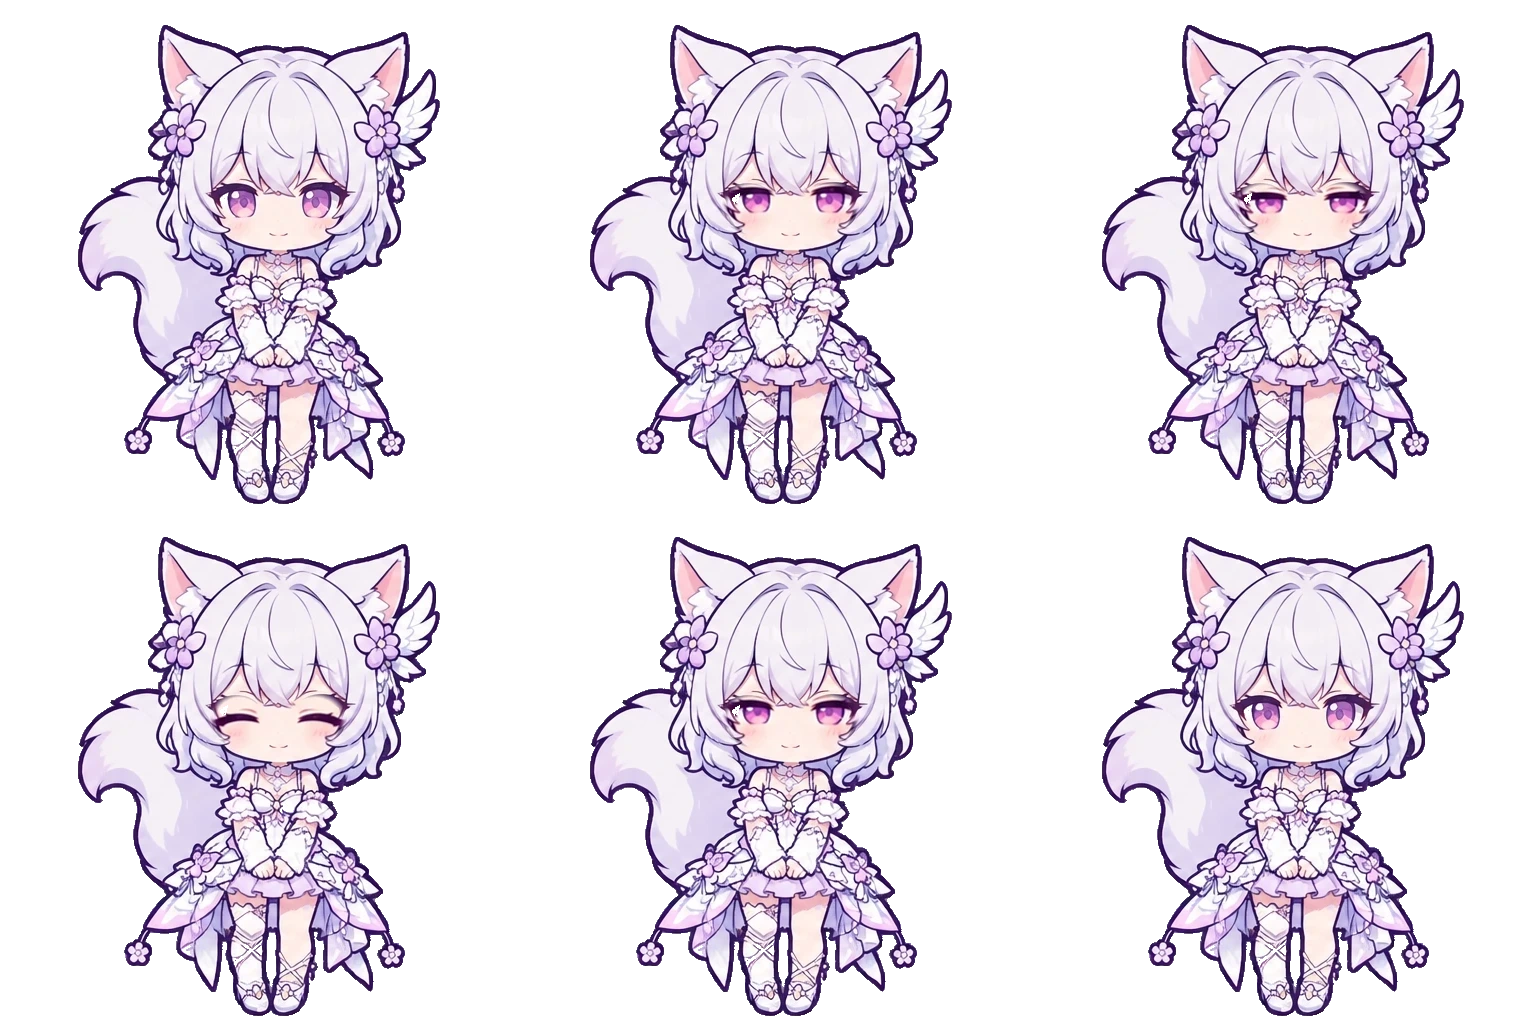
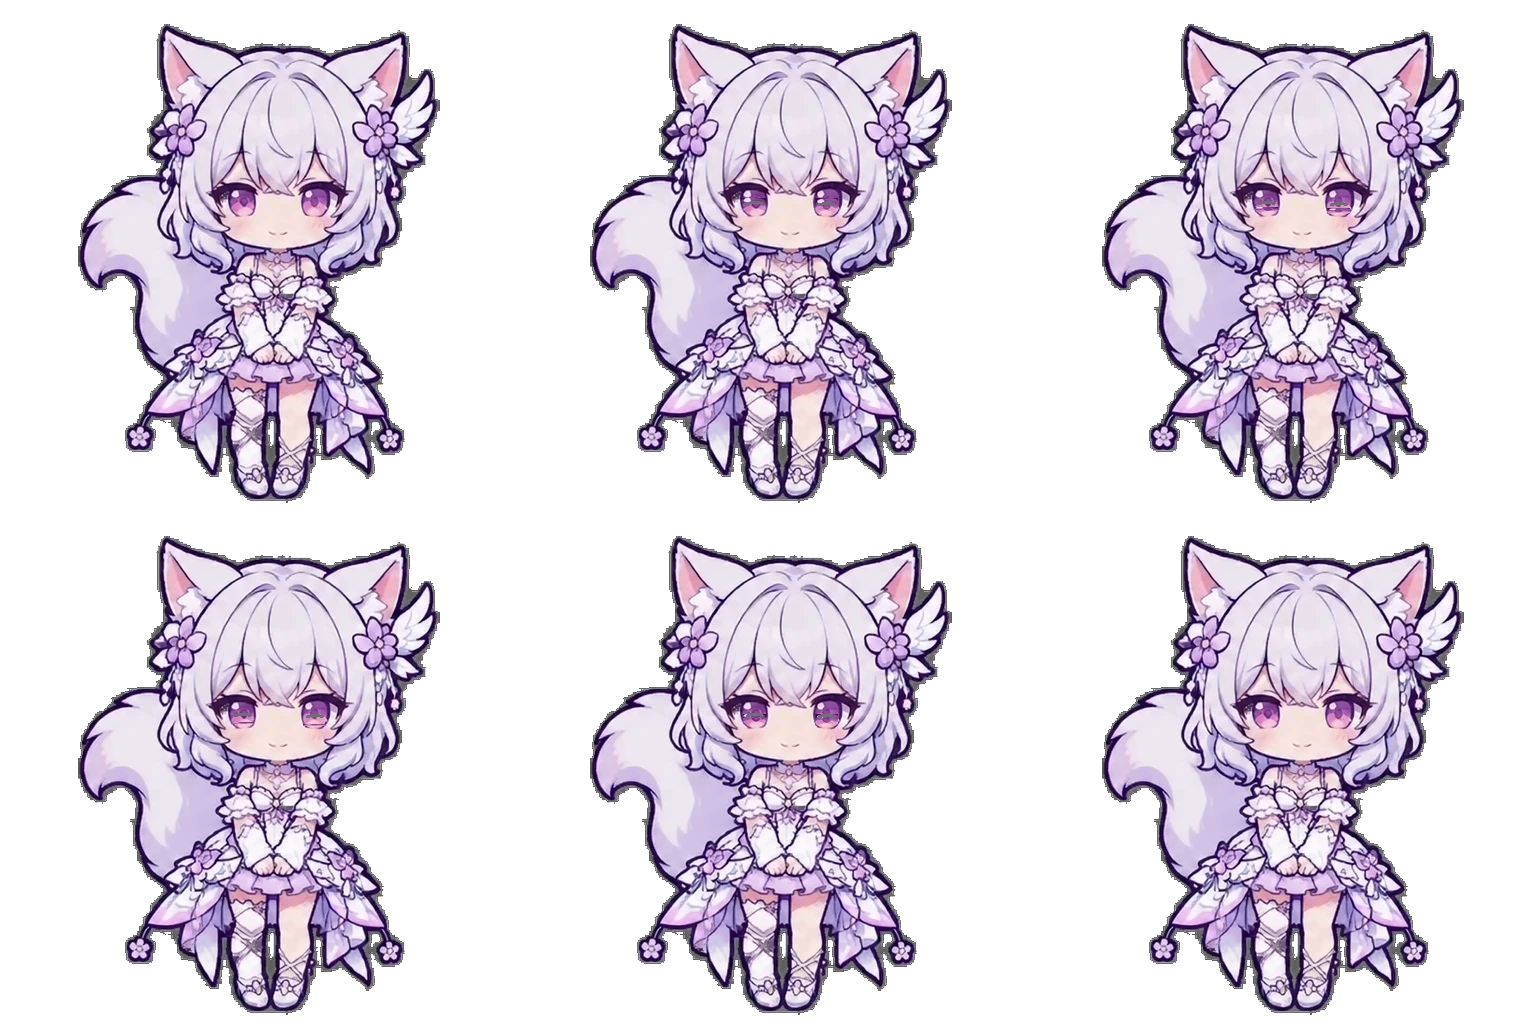
fix: refine pet idle rhythm and refresh animation assets

diff --git a/src/components/ChibiPetCanvas.tsx b/src/components/ChibiPetCanvas.tsx
@@ -40,6 +40,7 @@ import { runFlee, FLEE_TAKEOVER_HOLD_MS, type FleeEnv } from '../chibi/fleeTrack
 import type { FleeGeometry } from '../chibi/fleePlan';
 import { TapAngerLedger } from '../chibi/tapAnger';
 import { SheetLoader } from '../chibi/sheetLoader';
+import { IdleAccentRhythm } from '../chibi/idleAccentRhythm';
 import './ChibiPetCanvas.css';
 
 /**
@@ -367,8 +368,16 @@ export const ChibiPetCanvas = forwardRef<ChibiPetCanvasHandle, ChibiPetCanvasPro
     useEffect(() => { sheetLoader.setCapacity(gameMode ? 1 : 2); }, [gameMode, sheetLoader]);
     const [, setSheetVersion] = useState(0);
     useEffect(() => {
-      if (gameMode && poseName === 'idle') sheetLoader.clear();
+      if (gameMode && poseName === 'idle') sheetLoader.clear(true);
     }, [gameMode, poseName, sheetLoader]);
+    const idleSheet = `/chibi/motion/${characterId}/${characterId}-idle-sheet.webp`;
+    useEffect(() => {
+      let cancelled = false;
+      void sheetLoader.pin(idleSheet).then(() => {
+        if (!cancelled) setSheetVersion(version => version + 1);
+      });
+      return () => { cancelled = true; };
+    }, [idleSheet, sheetLoader]);
     const [frame, setFrame] = useState(0);
     /** 智能避让指定的走动帧间隔（ms）；为 null 时按图集固有节奏播放。 */
     const walkFrameDelayMsRef = useRef<number | null>(null);
@@ -1106,6 +1115,7 @@ export const ChibiPetCanvas = forwardRef<ChibiPetCanvasHandle, ChibiPetCanvasPro
     useEffect(() => {
       if (!IDLE_ACCENT || previewMode) return undefined;
       const { motion, intervalSecs, probability, durationMs } = IDLE_ACCENT;
+      const rhythm = new IdleAccentRhythm(intervalSecs * 1000, performance.now());
       let cancelled = false;
       let timer: number | null = null;
       const arm = (delayMs: number) => {
@@ -1115,15 +1125,15 @@ export const ChibiPetCanvas = forwardRef<ChibiPetCanvasHandle, ChibiPetCanvasPro
           timer = null;
           if (cancelled) return;
           const free = isAtRest() && !pressAliveRef.current && !positioningCoordinator.dragInFlight;
-          if (!free) {
-            arm(IDLE_ACCENT_RETRY_MS);
-            return;
+          const now = performance.now();
+          if (rhythm.ready(now, free)) {
+            if (Math.random() < probability) applyMotion(motion, durationMs);
+            rhythm.played(now, durationMs);
           }
-          if (Math.random() < probability) applyMotion(motion, durationMs);
-          arm(intervalSecs * 1_000);
+          arm(IDLE_ACCENT_RETRY_MS);
         }, delayMs);
       };
-      arm(intervalSecs * 1_000);
+      arm(IDLE_ACCENT_RETRY_MS);
       return () => {
         cancelled = true;
         if (timer !== null) window.clearTimeout(timer);
@@ -1701,9 +1711,12 @@ export const ChibiPetCanvas = forwardRef<ChibiPetCanvasHandle, ChibiPetCanvasPro
       activeSpec.kind === 'animation'
         ? sheetUrl(activeSpec, characterId, walkDirection)
         : null;
-    const spriteFrameStyle =
+    const idleFrameStyle = sheetLoader.isReady(idleSheet)
+      ? { backgroundImage: `url('${idleSheet}')`, backgroundSize: '100% 100%', backgroundPosition: '0% 0%' }
+      : frameStyle(IDLE_SPEC, IDLE_SLOT, characterId, walkDirection);
+    const spriteFrameStyle = activeSpec.name === 'idle' ? idleFrameStyle :
       activeSheet !== null && !sheetLoader.isReady(activeSheet)
-        ? frameStyle(IDLE_SPEC, IDLE_SLOT, characterId, walkDirection)
+        ? idleFrameStyle
         : frameStyle(activeSpec, activeSpec.kind === 'pose' ? activeSpec.slot : frame, characterId, walkDirection);
 
     return (

diff --git a/src/chibi/sheetLoader.ts b/src/chibi/sheetLoader.ts
@@ -4,10 +4,21 @@ export class SheetLoader {
   private failed = new Set<string>();
   private pending = new Map<string, { promise: Promise<boolean>; cancel: () => void }>();
   private capacity = 2;
+  private pinned = new Set<string>();
+
+  private evict(): void {
+    const disposable = [...this.images.keys()].filter(source => !this.pinned.has(source));
+    while (disposable.length > this.capacity) this.images.delete(disposable.shift()!);
+  }
+
+  pin(source: string): Promise<boolean> {
+    this.pinned.add(source);
+    return this.load(source);
+  }
 
   setCapacity(capacity: number): void {
     this.capacity = Math.max(1, Math.floor(capacity));
-    while (this.images.size > this.capacity) this.images.delete(this.images.keys().next().value!);
+    this.evict();
   }
 
   isReady(source: string): boolean {
@@ -34,7 +45,7 @@ export class SheetLoader {
       this.pending.delete(source);
       if (ready) {
         this.images.set(source, image);
-        while (this.images.size > this.capacity) this.images.delete(this.images.keys().next().value!);
+        this.evict();
       } else {
         this.failed.add(source);
       }
@@ -47,9 +58,13 @@ export class SheetLoader {
     return promise;
   }
 
-  clear(): void {
-    for (const { cancel } of [...this.pending.values()]) cancel();
-    this.images.clear();
-    this.failed.clear();
+  clear(keepPinned = false): void {
+    for (const [source, { cancel }] of [...this.pending]) {
+      if (!keepPinned || !this.pinned.has(source)) cancel();
+    }
+    for (const source of [...this.images.keys()]) {
+      if (!keepPinned || !this.pinned.has(source)) this.images.delete(source);
+    }
+    if (!keepPinned) { this.failed.clear(); this.pinned.clear(); }
   }
 }

diff --git a/src/components/ChibiPetCanvas.css b/src/components/ChibiPetCanvas.css
@@ -75,15 +75,14 @@
 .pose-listen .chibi-pet-sprite { animation: chibi-listen 1.3s ease-in-out infinite alternate; }
 .pose-walk .chibi-pet-sprite { animation: chibi-walk-step 420ms ease-in-out infinite alternate; }
 
-/* 转身与眨眼的帧序列画的就是整体形变，叠加 CSS 形变会互相打架，故关掉呼吸； */
+/* 整体形变图集关闭额外呼吸；眼部眨眼沿用 idle 呼吸，避免切换瞬间位置跳动。 */
 /* 表情类动作（cast/angry/smug/think）保持默认呼吸，与改版前一致 */
 .pose-turn .chibi-pet-sprite,
 .pose-float .chibi-pet-sprite,
 .pose-sleep .chibi-pet-sprite,
 .pose-wake .chibi-pet-sprite,
 .pose-tend .chibi-pet-sprite,
-.pose-tend-out .chibi-pet-sprite,
-.pose-blink .chibi-pet-sprite {
+.pose-tend-out .chibi-pet-sprite {
   animation: none;
 }
 

diff --git a/src/chibi/idleAccentRhythm.ts b/src/chibi/idleAccentRhythm.ts
@@ -1,0 +1,24 @@
+/** Quiet-time hysteresis plus a fresh cooldown prevents clockwork or bursty gestures. */
+export class IdleAccentRhythm {
+  private dueAt: number;
+  private quietSince: number | null = null;
+
+  constructor(private intervalMs: number, now: number, private random = Math.random) {
+    this.dueAt = now + this.delay();
+  }
+
+  private delay(): number {
+    return Math.max(12_000, this.intervalMs * (0.8 + this.random() * 0.6));
+  }
+
+  ready(now: number, free: boolean): boolean {
+    if (!free) { this.quietSince = null; return false; }
+    this.quietSince ??= now;
+    return now >= this.dueAt && now - this.quietSince >= 2_000;
+  }
+
+  played(now: number, durationMs: number): void {
+    this.dueAt = now + durationMs + this.delay();
+    this.quietSince = null;
+  }
+}
